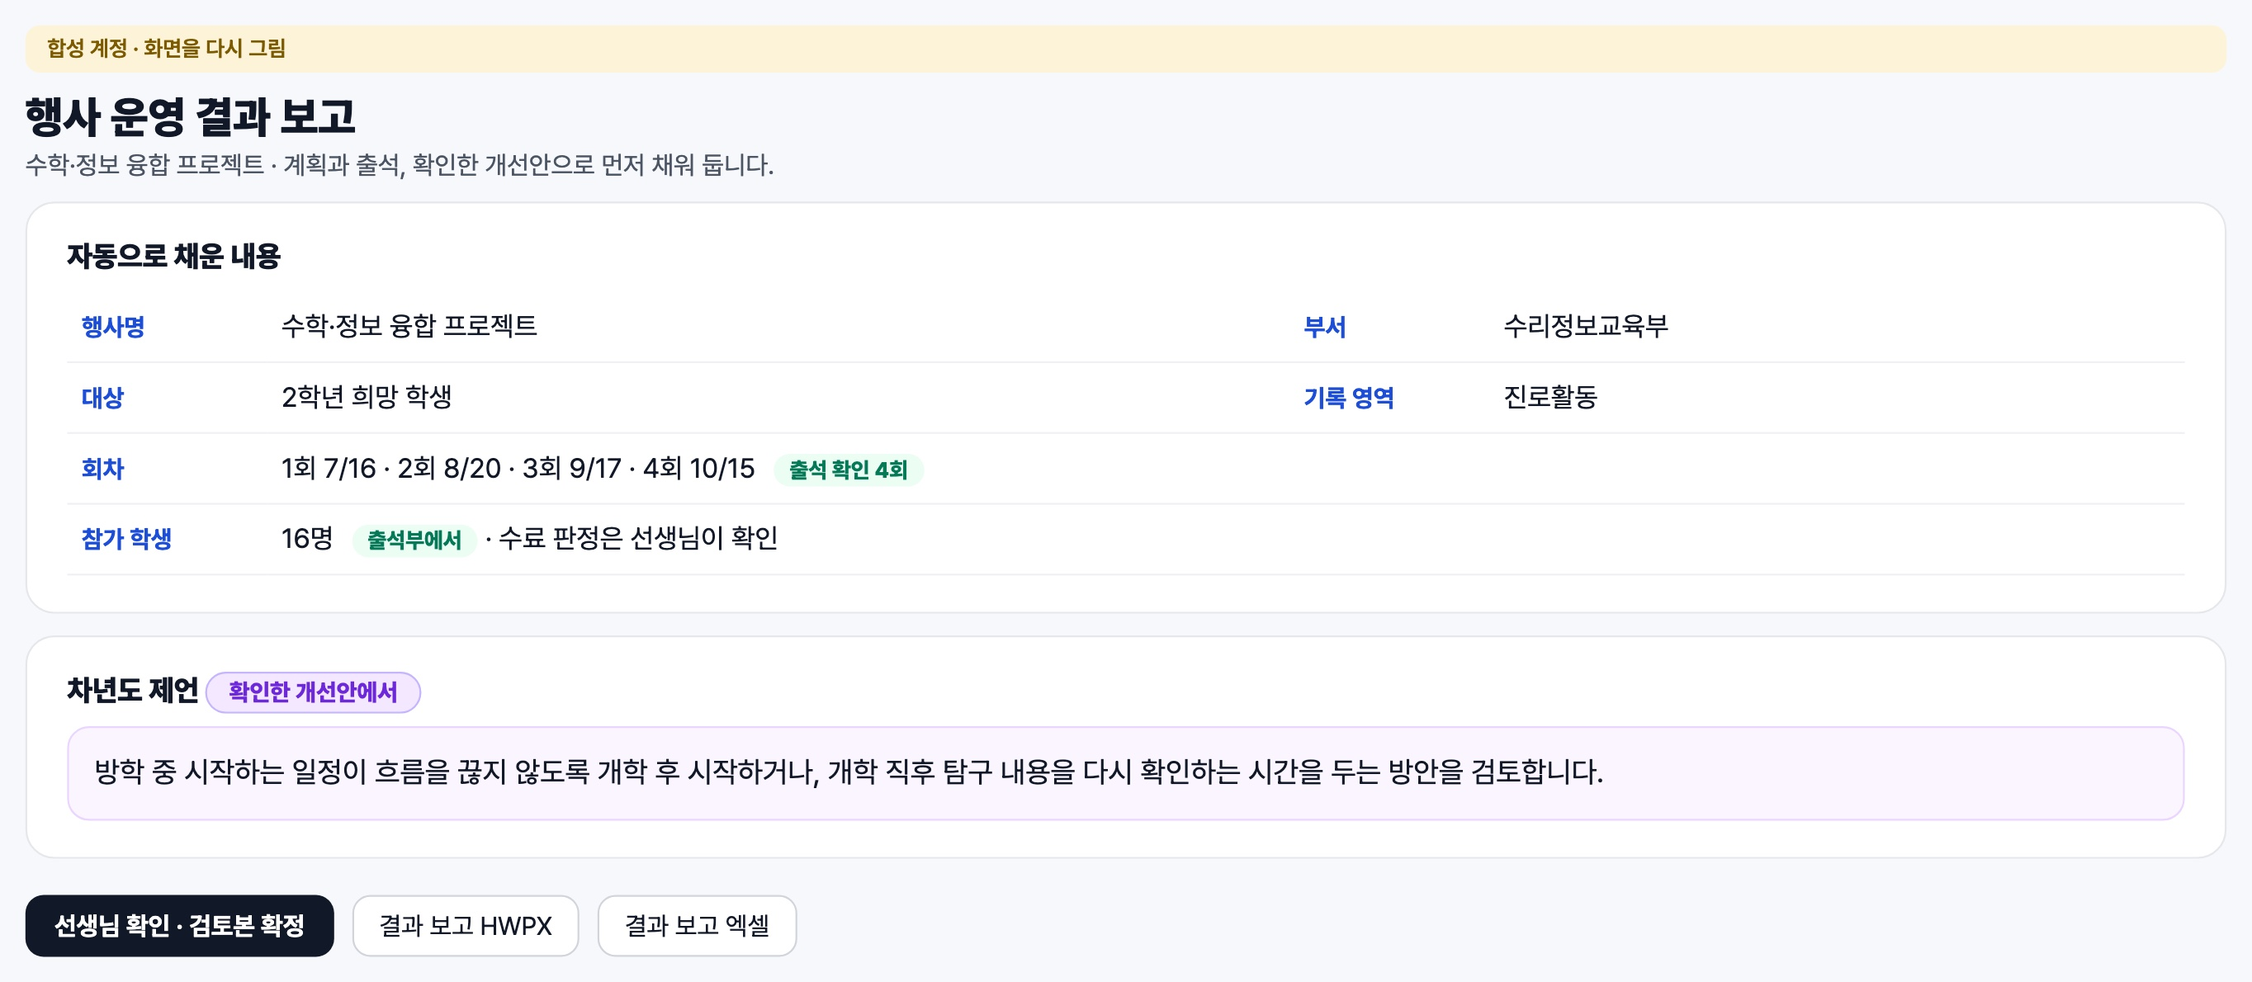
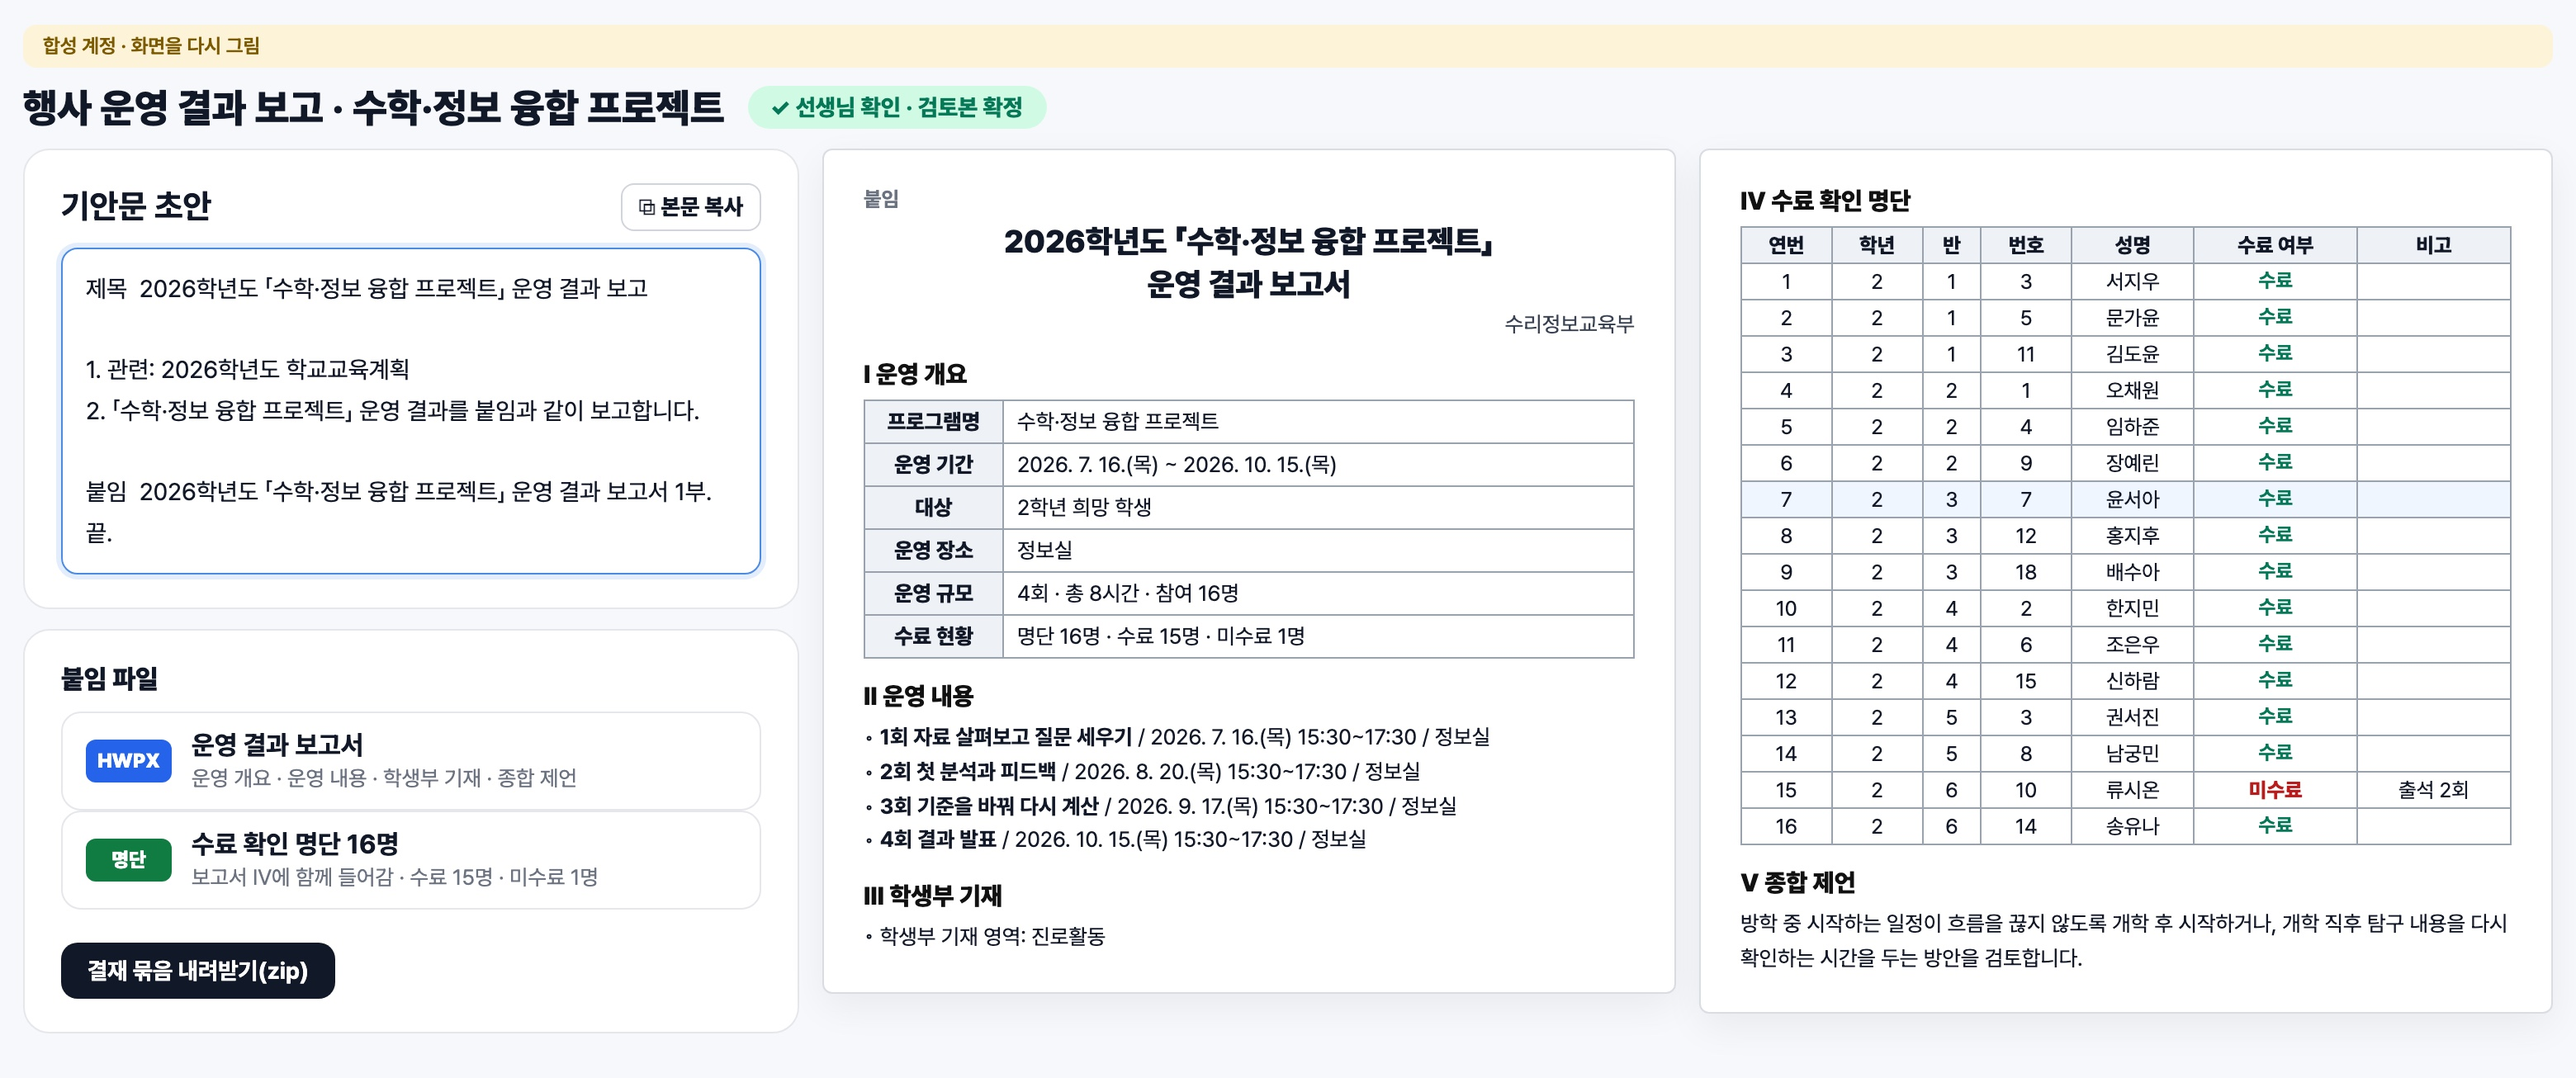
5장 결과보고서 장면(기안문 초안·운영 결과 보고서·수료 확인 명단), 학교 양식 엑셀 장면 다시 넣음

diff --git a/deck-data.js b/deck-data.js
@@ -328,20 +328,45 @@ window.MENUS = {
    {
     "label": "결과보고서 자동 생성",
     "sub": "행사 운영 결과 보고",
-    "mong": "chorong",
+    "mong": "gori",
     "type": "shot",
     "live": true,
     "img": "assets/m/n12.jpg",
-    "head": "계획 · 출석 · 확인한 개선안으로 결과 보고를 먼저 채움",
+    "head": "기안문 초안은 복사해 붙여 넣고, 운영 결과 보고서 · 수료 확인 명단은 붙임으로",
     "wow": [
-     "계획서와 출석부를 보며 결과 보고를 다시 씀",
-     "채워진 결과 보고를 선생님이 확인"
+     "기안문 · 보고서 · 명단을 따로 작성",
+     "기안문 · 보고서 · 수료 명단이 한 번에"
     ],
     "chips": [
      [
       "pr",
       "담당",
-      "HWPX · 엑셀로 내려받기"
+      "기안문 본문 복사 · 결재 묶음(zip) 내려받기"
+     ],
+     [
+      "sc",
+      "학교",
+      "수료 여부는 선생님이 확인한 뒤에만"
+     ]
+    ]
+   },
+   {
+    "label": "학교 양식 엑셀",
+    "sub": "창체 특기사항 공통 양식",
+    "mong": "chorong",
+    "type": "shot",
+    "live": true,
+    "img": "assets/m/n4.jpg",
+    "head": "[확인]한 초안만 학교 지정 양식으로",
+    "wow": [
+     "확인한 문장을 엑셀 양식에 다시 옮겨 적음",
+     "[학교 양식으로 내려받기] 한 번"
+    ],
+    "chips": [
+     [
+      "sc",
+      "생기부 담당",
+      "같은 양식을 모아 한 번에 통합"
      ]
     ]
    }
